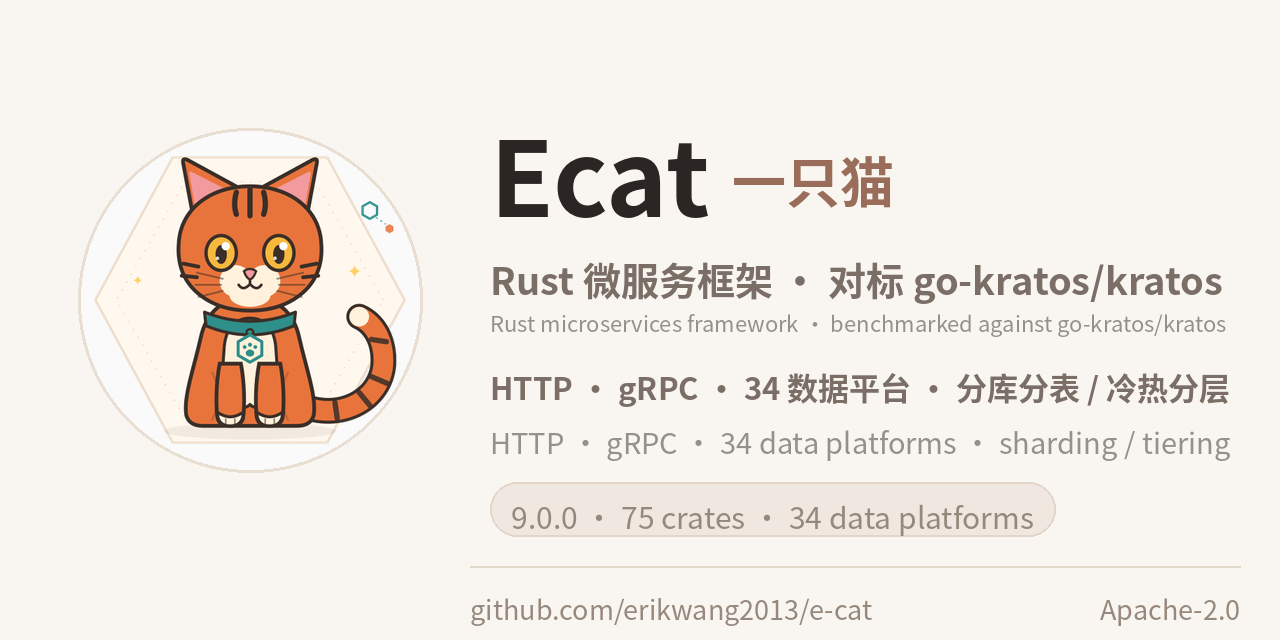
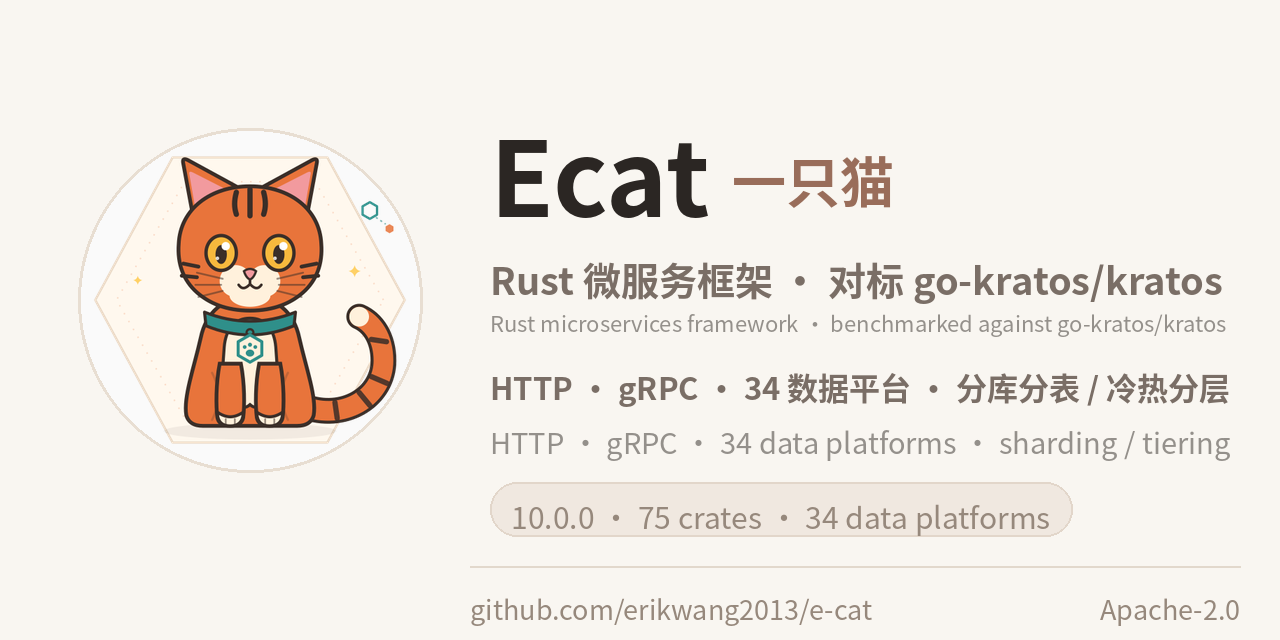
docs(release): prepare 10.0.0
- Add the 10.0.0 changelog section and site timeline/changelog entries.
- Refresh site/docs version references, sitemap dates, Helm appVersion and the
  social preview for 10.0.0.

Changed region(s): [[0.4062, 0.7812, 0.8438, 0.8438]]

diff --git a/site/changelog.html b/site/changelog.html
@@ -4,7 +4,7 @@
 <meta charset="utf-8">
 <meta name="viewport" content="width=device-width, initial-scale=1">
 <title>Ecat 版本日志 | Rust 微服务框架</title>
-<meta name="description" content="Ecat 的发布历史：27 个发布版本，当前版本 9.0.0；包含 34 项数据平台扩展、工作流编排、数据层横向扩展与全链路性能基准。">
+<meta name="description" content="Ecat 的发布历史：28 个发布版本，当前版本 10.0.0；包含 34 项数据平台扩展、工作流编排、数据层横向扩展与全链路性能基准。">
 <meta name="keywords" content="Ecat 版本日志,Rust 微服务框架,CHANGELOG,发布历史,Kratos,数据平台,工作流,数据层扩展,性能基准">
 <meta name="theme-color" content="#0a0e13">
 <meta name="color-scheme" content="dark">
@@ -26,7 +26,7 @@
 <meta property="og:type" content="article">
 <meta property="og:site_name" content="Ecat">
 <meta property="og:title" content="Ecat 版本日志 | Rust 微服务框架">
-<meta property="og:description" content="Ecat 的发布历史：27 个发布版本，当前版本 9.0.0；包含 34 项数据平台扩展、工作流编排、数据层横向扩展与全链路性能基准。">
+<meta property="og:description" content="Ecat 的发布历史：28 个发布版本，当前版本 10.0.0；包含 34 项数据平台扩展、工作流编排、数据层横向扩展与全链路性能基准。">
 <meta property="og:url" content="https://e-cat.erik.xyz/changelog.html">
 <meta property="og:image" content="https://e-cat.erik.xyz/assets/img/social-preview.png">
 <meta property="og:image:type" content="image/png">
@@ -40,7 +40,7 @@
 <meta property="article:author" content="https://erik.xyz">
 <meta name="twitter:card" content="summary_large_image">
 <meta name="twitter:title" content="Ecat 版本日志 | Rust 微服务框架">
-<meta name="twitter:description" content="Ecat 的发布历史：27 个发布版本，当前版本 9.0.0；包含 34 项数据平台扩展、工作流编排、数据层横向扩展与全链路性能基准。">
+<meta name="twitter:description" content="Ecat 的发布历史：28 个发布版本，当前版本 10.0.0；包含 34 项数据平台扩展、工作流编排、数据层横向扩展与全链路性能基准。">
 <meta name="twitter:image" content="https://e-cat.erik.xyz/assets/img/social-preview.png">
 <script type="application/ld+json">
 {
@@ -48,8 +48,8 @@
   "@graph": [
     {"@type":"WebSite","@id":"https://e-cat.erik.xyz/#website","url":"https://e-cat.erik.xyz/","name":"一只猫 Ecat","alternateName":"Ecat","description":"Ecat 是对标 Kratos v3 的 Rust 微服务框架：API-first，HTTP 与 gRPC 共享 tower 中间件，75 个 crate，34 个数据平台，新增分库分表/冷热分层，内置 ORM。","inLanguage":"zh-CN","publisher":{"@id":"https://e-cat.erik.xyz/#person"}},
     {"@type":"Person","@id":"https://e-cat.erik.xyz/#person","name":"erik","url":"https://erik.xyz","email":"erik@erik.xyz","sameAs":["https://github.com/erikwang2013"]},
-    {"@type":"SoftwareSourceCode","@id":"https://e-cat.erik.xyz/#software","name":"Ecat","alternateName":"一只猫","description":"API-first Rust 微服务框架，HTTP 与 gRPC 共享 tower 中间件，支持分库分表、冷热分层与 opt-in 2PC。","url":"https://e-cat.erik.xyz/","codeRepository":"https://github.com/erikwang2013/e-cat","programmingLanguage":{"@type":"ComputerLanguage","name":"Rust"},"license":"https://www.apache.org/licenses/LICENSE-2.0","version":"9.0.0","keywords":"Rust, microservices, Kratos, gRPC, HTTP, tower, ORM, sharding, tiering, Saga, 2PC, benchmarks","author":{"@id":"https://e-cat.erik.xyz/#person"},"sameAs":["https://crates.io/crates/ecat-cli","https://docs.rs/ecat"]},
-    {"@type":"WebPage","@id":"https://e-cat.erik.xyz/changelog.html#webpage","url":"https://e-cat.erik.xyz/changelog.html","name":"Ecat 版本日志 | Rust 微服务框架","description":"Ecat 的发布历史：27 个发布版本，当前版本 9.0.0；包含 34 项数据平台扩展、工作流编排、数据层横向扩展与全链路性能基准。","inLanguage":"zh-CN","isPartOf":{"@id":"https://e-cat.erik.xyz/#website"},"about":{"@id":"https://e-cat.erik.xyz/#software"},"datePublished":"2026-10-21","dateModified":"2026-11-05","primaryImageOfPage":{"@type":"ImageObject","url":"https://e-cat.erik.xyz/assets/img/social-preview.png","width":1280,"height":640},"breadcrumb":{"@id":"https://e-cat.erik.xyz/changelog.html#breadcrumb"}},
+    {"@type":"SoftwareSourceCode","@id":"https://e-cat.erik.xyz/#software","name":"Ecat","alternateName":"一只猫","description":"API-first Rust 微服务框架，HTTP 与 gRPC 共享 tower 中间件，支持分库分表、冷热分层与 opt-in 2PC。","url":"https://e-cat.erik.xyz/","codeRepository":"https://github.com/erikwang2013/e-cat","programmingLanguage":{"@type":"ComputerLanguage","name":"Rust"},"license":"https://www.apache.org/licenses/LICENSE-2.0","version":"10.0.0","keywords":"Rust, microservices, Kratos, gRPC, HTTP, tower, ORM, sharding, tiering, Saga, 2PC, benchmarks","author":{"@id":"https://e-cat.erik.xyz/#person"},"sameAs":["https://crates.io/crates/ecat-cli","https://docs.rs/ecat"]},
+    {"@type":"WebPage","@id":"https://e-cat.erik.xyz/changelog.html#webpage","url":"https://e-cat.erik.xyz/changelog.html","name":"Ecat 版本日志 | Rust 微服务框架","description":"Ecat 的发布历史：28 个发布版本，当前版本 10.0.0；包含 34 项数据平台扩展、工作流编排、数据层横向扩展与全链路性能基准。","inLanguage":"zh-CN","isPartOf":{"@id":"https://e-cat.erik.xyz/#website"},"about":{"@id":"https://e-cat.erik.xyz/#software"},"datePublished":"2026-10-21","dateModified":"2026-11-07","primaryImageOfPage":{"@type":"ImageObject","url":"https://e-cat.erik.xyz/assets/img/social-preview.png","width":1280,"height":640},"breadcrumb":{"@id":"https://e-cat.erik.xyz/changelog.html#breadcrumb"}},
     {"@type":"BreadcrumbList","@id":"https://e-cat.erik.xyz/changelog.html#breadcrumb","itemListElement":[{"@type":"ListItem","position":1,"name":"概览","item":"https://e-cat.erik.xyz/"},{"@type":"ListItem","position":2,"name":"版本日志","item":"https://e-cat.erik.xyz/changelog.html"}]}
   ]
 }
@@ -59,7 +59,7 @@
 <script src="assets/js/main.js" defer></script>
 <script src="assets/js/search.js" defer></script>
 </head>
-<body data-page="changelog" data-title-zh="Ecat 版本日志 | Rust 微服务框架" data-title-en="Ecat changelog | Rust microservices framework" data-desc-zh="Ecat 的发布历史：27 个发布版本，当前版本 9.0.0；包含 34 项数据平台扩展、工作流编排、数据层横向扩展与全链路性能基准。" data-desc-en="Ecat release history: 27 published versions, current release 9.0.0, including the 34-platform data expansion, workflow orchestration, data-layer scale-out, and full-chain benchmarks.">
+<body data-page="changelog" data-title-zh="Ecat 版本日志 | Rust 微服务框架" data-title-en="Ecat changelog | Rust microservices framework" data-desc-zh="Ecat 的发布历史：28 个发布版本，当前版本 10.0.0；包含 34 项数据平台扩展、工作流编排、数据层横向扩展与全链路性能基准。" data-desc-en="Ecat release history: 28 published versions, current release 10.0.0, including the 34-platform data expansion, workflow orchestration, data-layer scale-out, and full-chain benchmarks.">
 <a class="skip-link" href="#main" data-i18n="a11y.skip">跳到主要内容</a>
 <header class="site-header">
   <div class="shell header-inner">
@@ -91,7 +91,7 @@
       <div class="page-hero-copy">
         <nav class="breadcrumbs" aria-label="面包屑" data-i18n-aria="a11y.breadcrumb"><a href="./" data-i18n="nav.home">概览</a><span aria-hidden="true">/</span><span aria-current="page" data-i18n="nav.changelog">版本日志</span></nav>
         <h1 data-i18n="changelog.pageTitle">版本日志</h1>
-        <p data-i18n="changelog.pageLead">27 个发布版本，当前版本是 9.0.0。这里展示 15 个主要版本，破坏性变更单独标出。</p>
+        <p data-i18n="changelog.pageLead">28 个发布版本，当前版本是 10.0.0。这里展示 16 个主要版本，破坏性变更单独标出。</p>
       </div>
       <img class="page-hero-pet" src="assets/img/pet/knocking.svg" alt="" width="480" height="480" loading="eager" fetchpriority="high" decoding="async">
     </div>
@@ -101,12 +101,22 @@
   <section class="section">
     <div class="shell">
       <div class="log-toolbar reveal">
-        <p><span class="chip chip--teal" data-i18n="changelog.count">27 个发布版本 · 展示 15 个</span></p>
+        <p><span class="chip chip--teal" data-i18n="changelog.count">28 个发布版本 · 展示 16 个</span></p>
         <a class="text-link" href="https://github.com/erikwang2013/e-cat/blob/main/CHANGELOG.md" target="_blank" rel="noopener" data-i18n="changelog.full">在 GitHub 阅读完整 CHANGELOG</a>
       </div>
 
       <div class="log-list">
         <details class="log-item reveal" open>
+          <summary><span class="log-version">10.0.0</span><span class="log-date">2026-11-07</span><span class="log-tag" data-i18n="changelog.tagBreaking">破坏性</span><svg class="icon log-chevron" aria-hidden="true"><use href="assets/icons/sprite.svg#i-chevron-down"></use></svg></summary>
+          <div class="log-body"><ul>
+            <li data-i18n-html="changelog.v1000.b1"><strong>破坏性</strong>：<code>tonic</code> 0.12 → 0.14（<code>prost</code> 0.14、<code>tonic-prost</code>），gRPC 公开类型随之上移；MQ / RabbitMQ TLS 改走 native-tls（OpenSSL），MQTT mTLS 私钥须为 PKCS#8 PEM。</li>
+            <li data-i18n-html="changelog.v1000.b2">彻底移除不维护依赖：<code>rustls-pemfile</code>、<code>rustls-webpki 0.102.8</code>、<code>instant</code> 不再出现在 <code>Cargo.lock</code>；<code>prometheus</code> 0.14 消除 <code>protobuf</code> 2.28。</li>
+            <li data-i18n-html="changelog.v1000.b3">4 处 PEM 解析改用 <code>rustls-pki-types</code>；<code>lapin</code> 4、<code>rustls-native-certs</code> 0.8；<code>cargo audit --deny warnings</code> 通过（仅保留无修复版、当前用法不构成攻击面的 rsa）。</li>
+            <li data-i18n-html="changelog.v1000.b4">删除 39 个无引用的过期审计/测试报告；<code>ecat proto</code> 代码生成同步到 <code>tonic-prost-build</code>。</li>
+          </ul></div>
+        </details>
+
+        <details class="log-item reveal">
           <summary><span class="log-version">9.0.0</span><span class="log-date">2026-11-05</span><span class="log-tag" data-i18n="changelog.tagBreaking">破坏性</span><svg class="icon log-chevron" aria-hidden="true"><use href="assets/icons/sprite.svg#i-chevron-down"></use></svg></summary>
           <div class="log-body"><ul>
             <li data-i18n-html="changelog.v900.b1">移除 30 条未使用的直接依赖声明，涉及 18 个 Cargo.toml 与 workspace 表（<code>prost-types</code>、<code>ecat-protos</code>）；<code>cargo machete</code> 仅剩两个已知误报。</li>

diff --git a/site/index.html b/site/index.html
@@ -48,7 +48,7 @@
   "@graph": [
     {"@type":"WebSite","@id":"https://e-cat.erik.xyz/#website","url":"https://e-cat.erik.xyz/","name":"一只猫 Ecat","alternateName":"Ecat","description":"Ecat 是对标 Kratos v3 的 Rust 微服务框架：API-first，HTTP 与 gRPC 共享 tower 中间件，75 个 crate，34 个数据平台，覆盖数据层横向扩展、工作流编排与全链路性能基准，内置 ORM。","inLanguage":"zh-CN","publisher":{"@id":"https://e-cat.erik.xyz/#person"}},
     {"@type":"Person","@id":"https://e-cat.erik.xyz/#person","name":"erik","url":"https://erik.xyz","email":"erik@erik.xyz","sameAs":["https://github.com/erikwang2013"]},
-    {"@type":"SoftwareSourceCode","@id":"https://e-cat.erik.xyz/#software","name":"Ecat","alternateName":"一只猫","description":"API-first Rust 微服务框架，HTTP 与 gRPC 共享 tower 中间件，支持分库分表、冷热分层与 opt-in 2PC。","url":"https://e-cat.erik.xyz/","codeRepository":"https://github.com/erikwang2013/e-cat","programmingLanguage":{"@type":"ComputerLanguage","name":"Rust"},"license":"https://www.apache.org/licenses/LICENSE-2.0","version":"9.0.0","keywords":"Rust, microservices, Kratos, gRPC, HTTP, tower, ORM, sharding, tiering, Saga, 2PC, benchmarks","author":{"@id":"https://e-cat.erik.xyz/#person"},"sameAs":["https://crates.io/crates/ecat-cli","https://docs.rs/ecat"]},
+    {"@type":"SoftwareSourceCode","@id":"https://e-cat.erik.xyz/#software","name":"Ecat","alternateName":"一只猫","description":"API-first Rust 微服务框架，HTTP 与 gRPC 共享 tower 中间件，支持分库分表、冷热分层与 opt-in 2PC。","url":"https://e-cat.erik.xyz/","codeRepository":"https://github.com/erikwang2013/e-cat","programmingLanguage":{"@type":"ComputerLanguage","name":"Rust"},"license":"https://www.apache.org/licenses/LICENSE-2.0","version":"10.0.0","keywords":"Rust, microservices, Kratos, gRPC, HTTP, tower, ORM, sharding, tiering, Saga, 2PC, benchmarks","author":{"@id":"https://e-cat.erik.xyz/#person"},"sameAs":["https://crates.io/crates/ecat-cli","https://docs.rs/ecat"]},
     {"@type":"WebPage","@id":"https://e-cat.erik.xyz/#webpage","url":"https://e-cat.erik.xyz/","name":"一只猫 Ecat | 对标 Kratos 的 Rust 微服务框架","description":"Ecat 是对标 Kratos v3 的 Rust 微服务框架：API-first，HTTP 与 gRPC 共享 tower 中间件，75 个 crate，34 个数据平台，覆盖数据层横向扩展、工作流编排与全链路性能基准，内置 ORM。","inLanguage":"zh-CN","isPartOf":{"@id":"https://e-cat.erik.xyz/#website"},"about":{"@id":"https://e-cat.erik.xyz/#software"},"datePublished":"2026-10-21","dateModified":"2026-10-29","primaryImageOfPage":{"@type":"ImageObject","url":"https://e-cat.erik.xyz/assets/img/social-preview.png","width":1280,"height":640},"mainEntity":{"@id":"https://e-cat.erik.xyz/#faq"}},
     {"@type":"FAQPage","@id":"https://e-cat.erik.xyz/#faq","mainEntity":[
       {"@type":"Question","name":"Ecat 是什么？","acceptedAnswer":{"@type":"Answer","text":"Ecat（一只猫）是对标 go-kratos/kratos v3 的 Rust 微服务框架，提供 API-first 开发体验、HTTP 与 gRPC 共用 tower 中间件，以及 75 个可按 feature 组合的 crate。"}},
@@ -239,7 +239,7 @@
     <div class="shell">
       <div class="section-head reveal">
         <h2 data-i18n="timeline.title">从骨架到 75 个 crate</h2>
-        <p data-i18n="timeline.lead">从 2.x 的数据后端到 7.1 的宠物 CLI、7.2.0 的数据层横向扩展、7.2.1 的安全修复、7.3.0 的全链路性能基准，再到 8.0.0 的数据平台与工作流编排、9.0.0 的依赖与接口清理。Phase 1–17 已完成（部分 live gate 仍待真机）。</p>
+        <p data-i18n="timeline.lead">从 2.x 的数据后端到 7.1 的宠物 CLI、7.2.0 的数据层横向扩展、7.2.1 的安全修复、7.3.0 的全链路性能基准，再到 8.0.0 的数据平台与工作流编排、9.0.0 的接口清理、10.0.0 的依赖树净化。Phase 1–17 已完成（部分 live gate 仍待真机）。</p>
       </div>
       <div class="timeline">
         <article class="timeline-item reveal"><div class="timeline-meta"><strong>v2.1.7</strong><time datetime="2026-07-29">2026-07-29</time></div><h3 data-i18n="timeline.v217.title">数据层打开局面</h3><p data-i18n="timeline.v217.desc">11 个数据库后端，TLS、WebSocket、API 版本路由与部署模板落地。</p></article>
@@ -255,6 +255,7 @@
         <article class="timeline-item reveal"><div class="timeline-meta"><strong>v7.3.0</strong><time datetime="2026-10-26">2026-10-26</time></div><h3 data-i18n="timeline.v730.title">全链路性能基准</h3><p data-i18n="timeline.v730.desc">HTTP/gRPC 读路径 0/100,000 次 ≥10ms，TCP_NODELAY 消除毫秒级尾部；基准脚本与文档随版本发布。</p></article>
         <article class="timeline-item reveal"><div class="timeline-meta"><strong>v8.0.0</strong><time datetime="2026-10-29">2026-10-29</time></div><h3 data-i18n="timeline.v800.title">数据平台与工作流编排</h3><p data-i18n="timeline.v800.desc">新增 Trino、Flink、Druid、Kylin、Spark、HDFS、HBase、Cassandra、Iceberg、Delta Sharing 客户端；Doris/StarRocks 接入 sqlx；工作流统一契约覆盖 Airflow、DolphinScheduler、Azkaban、Oozie；支持表扩至 34 项。</p></article>
         <article class="timeline-item reveal"><div class="timeline-meta"><strong>v9.0.0</strong><time datetime="2026-11-05">2026-11-05</time></div><h3 data-i18n="timeline.v900.title">依赖与接口清理</h3><p data-i18n="timeline.v900.desc">移除 30 条无用依赖与 17 个无调用公开接口，删除 169 个无引用文档；升级 libz-sys 修复 RUSTSEC-2026-0418，cargo audit 清零。</p></article>
+        <article class="timeline-item reveal"><div class="timeline-meta"><strong>v10.0.0</strong><time datetime="2026-11-07">2026-11-07</time></div><h3 data-i18n="timeline.v1000.title">依赖树净化</h3><p data-i18n="timeline.v1000.desc">移除 rustls-pemfile、rustls-webpki 0.102.8 与 instant；升级 tonic 0.14、lapin 4、prometheus 0.14；MQ TLS 改走 native-tls，cargo audit 仅剩已评估的 rsa。</p></article>
       </div>
     </div>
   </section>
@@ -263,7 +264,7 @@
     <div class="shell">
       <div class="section-head reveal">
         <h2 data-i18n="perf.title">全链路性能基准（7.3.0）</h2>
-        <p data-i18n="perf.lead">HTTP/gRPC 搭配 MySQL 9 + Redis 7，本机 loopback、8 并发、每轮 1 万请求、5 轮；读路径为一条主键 SELECT 加一条 Redis GET。下图为 7.3.0 基准；9.0.0 无性能改动，未重跑。</p>
+        <p data-i18n="perf.lead">HTTP/gRPC 搭配 MySQL 9 + Redis 7，本机 loopback、8 并发、每轮 1 万请求、5 轮；读路径为一条主键 SELECT 加一条 Redis GET。下图为 7.3.0 基准；9.0.0 / 10.0.0 无性能改动，未重跑。</p>
       </div>
       <div class="arch-panel perf-panel reveal">
         <div class="stats-grid">
@@ -323,7 +324,7 @@
         <div class="download-primary reveal">
           <h3 data-i18n="download.primaryTitle">安装 CLI</h3>
           <p data-i18n="download.primaryDesc">只需要 Rust 1.88+ 和 protoc。命令会安装 ecat 二进制和宠物资源。</p>
-          <div class="version-line"><span class="version-pill">v9.0.0</span><span data-i18n="download.versionLabel">当前版本</span><span>Rust 1.88+</span><span>Apache-2.0</span></div>
+          <div class="version-line"><span class="version-pill">v10.0.0</span><span data-i18n="download.versionLabel">当前版本</span><span>Rust 1.88+</span><span>Apache-2.0</span></div>
           <div class="install-line"><code id="cargo-install">cargo install ecat-cli</code><button class="copy-btn" data-copy="#cargo-install" aria-label="复制代码" data-i18n-aria="a11y.copy"><svg class="icon" aria-hidden="true"><use href="assets/icons/sprite.svg#i-copy"></use></svg><span class="copy-label" data-i18n="a11y.copyShort">复制</span></button></div>
           <div class="download-links">
             <a class="text-link" href="https://crates.io/crates/ecat-cli" target="_blank" rel="noopener">crates.io <svg class="icon icon-sm" aria-hidden="true"><use href="assets/icons/sprite.svg#i-external-link"></use></svg></a>

diff --git a/site/assets/js/i18n-en.js b/site/assets/js/i18n-en.js
@@ -119,7 +119,7 @@ window.ECAT_EN = {
   "features.dual.petAlt": "Cute Ecat expression",
 
   "timeline.title": "From a workspace skeleton to 75 crates",
-  "timeline.lead": "From the 2.x data platforms to the 7.1 pet CLI, the 7.2.0 data-layer scale-out, the 7.2.1 hardening release, the 7.3.0 full-chain benchmarks, and the 8.0.0 data-platform and workflow expansion, to the 9.0.0 dependency and API cleanup. Phases 1–17 are complete, with some live gates still pending.",
+  "timeline.lead": "From the 2.x data platforms to the 7.1 pet CLI, the 7.2.0 data-layer scale-out, the 7.2.1 hardening release, the 7.3.0 full-chain benchmarks, and the 8.0.0 data-platform and workflow expansion, to the 9.0.0 dependency and API cleanup and the 10.0.0 dependency-tree purge. Phases 1–17 are complete, with some live gates still pending.",
   "timeline.v217.title": "The data layer opens up",
   "timeline.v217.desc": "Eleven database backends, TLS, WebSocket, API versioning, and deployment templates land.",
   "timeline.v300.title": "Messages and config get consistent",
@@ -248,11 +248,11 @@ window.ECAT_EN = {
   "ref.configDocLink": "Database config tutorial and field reference",
 
   "meta.changelog.title": "Ecat changelog | Rust microservices framework",
-  "meta.changelog.desc": "Ecat release history: 27 published versions, current release 9.0.0, including the 34-platform data expansion, workflow orchestration, data-layer scale-out, and full-chain benchmarks.",
+  "meta.changelog.desc": "Ecat release history: 28 published versions, current release 10.0.0, including the 34-platform data expansion, workflow orchestration, data-layer scale-out, and full-chain benchmarks.",
   "changelog.pageTitle": "Changelog",
-  "changelog.pageLead": "27 published versions, current release 9.0.0. This page shows 15 major entries; breaking changes are marked in each entry.",
+  "changelog.pageLead": "28 published versions, current release 10.0.0. This page shows 16 major entries; breaking changes are marked in each entry.",
   "changelog.full": "Read the full changelog on GitHub",
-  "changelog.count": "27 releases · 15 shown",
+  "changelog.count": "28 releases · 16 shown",
   "changelog.tagSecurity": "Security",
   "changelog.tagFeature": "Feature",
   "changelog.tagBreaking": "Breaking",
@@ -383,7 +383,13 @@ window.ECAT_EN = {
   "timeline.v800.desc": "Add Trino, Flink, Druid, Kylin, Spark, HDFS, HBase, Cassandra, Iceberg, and Delta Sharing clients; Doris/StarRocks join through sqlx; the unified workflow contract covers Airflow, DolphinScheduler, Azkaban, and Oozie; the support matrix reaches 34 entries.",
   "timeline.v900.title": "Dependency and API cleanup",
   "timeline.v900.desc": "Remove 30 unused dependencies and 17 uncalled public APIs, and delete 169 unreferenced documents; upgrade libz-sys to fix RUSTSEC-2026-0418 and clear cargo audit.",
+  "timeline.v1000.title": "Dependency-tree purge",
+  "timeline.v1000.desc": "Remove rustls-pemfile, rustls-webpki 0.102.8, and instant; upgrade tonic 0.14, lapin 4, and prometheus 0.14; MQ TLS moves to native-tls, leaving cargo audit with only the assessed rsa advisory.",
 
+  "changelog.v1000.b1": "<strong>Breaking</strong>: <code>tonic</code> 0.12 → 0.14 (<code>prost</code> 0.14, <code>tonic-prost</code>), moving public gRPC types forward; MQ / RabbitMQ TLS moves to native-tls (OpenSSL), and MQTT mTLS keys must be PKCS#8 PEM.",
+  "changelog.v1000.b2": "Remove the unmaintained <code>rustls-pemfile</code>, <code>rustls-webpki 0.102.8</code>, and <code>instant</code> from <code>Cargo.lock</code>; <code>prometheus</code> 0.14 removes <code>protobuf</code> 2.28.",
+  "changelog.v1000.b3": "Move four PEM parsing sites to <code>rustls-pki-types</code>; upgrade <code>lapin</code> 4 and <code>rustls-native-certs</code> 0.8; <code>cargo audit --deny warnings</code> passes with only the unfixable rsa advisory, which is not an attack surface in current use.",
+  "changelog.v1000.b4": "Delete 39 unreferenced stale audit/test reports; sync <code>ecat proto</code> code generation to <code>tonic-prost-build</code>.",
   "changelog.v900.b1": "Remove 30 unused direct dependency declarations across 18 Cargo.toml files and the workspace table (<code>prost-types</code>, <code>ecat-protos</code>); <code>cargo machete</code> now reports only two known false positives.",
   "changelog.v900.b2": "<strong>Breaking</strong>: remove 17 uncalled public APIs, including <code>SERVICE_NAME</code> / <code>CLIENT_IP</code>, several builders and constructors, <code>GraphQLSchema::{query, mutation}</code> (<code>query_fn</code> is kept), and <code>WorkflowHttp::client</code>. Downstream code must use the equivalent paths.",
   "changelog.v900.b3": "Delete 169 unreferenced documents and six <code>.superpowers</code> session artifacts; refresh the README, 12 i18n mirrors, the site, and the social preview.",
@@ -400,7 +406,7 @@ window.ECAT_EN = {
   "changelog.v730.b4": "The static site gains client-side full-text search with Ctrl/Cmd+K and / shortcuts. Version metadata moves to 7.3.0.",
 
   "perf.title": "Full-chain benchmarks (7.3.0)",
-  "perf.lead": "HTTP/gRPC with MySQL 9 + Redis 7 on loopback: 8 concurrency, 10,000 timed requests per round across 5 rounds. The read path is one primary-key SELECT plus one Redis GET. The chart shows the 7.3.0 benchmark; 9.0.0 has no performance changes and was not re-run.",
+  "perf.lead": "HTTP/gRPC with MySQL 9 + Redis 7 on loopback: 8 concurrency, 10,000 timed requests per round across 5 rounds. The read path is one primary-key SELECT plus one Redis GET. The chart shows the 7.3.0 benchmark; 9.0.0 and 10.0.0 have no performance changes and were not re-run.",
   "perf.statSlo": "read requests at 10ms or more",
   "perf.statHttp": "HTTP read max",
   "perf.statGrpc": "gRPC read max",
@@ -409,7 +415,7 @@ window.ECAT_EN = {
   "perf.docsLink": "See the full benchmark table and reproduction commands →",
   "perf.repoLink": "Repository docs/performance.md",
 
-  "perf.docsLead": "Final merged run: HTTP and gRPC in one process, 8 concurrency, 10,000 timed requests per round across 5 rounds. The read path is one primary-key SELECT plus one Redis GET on loopback; these numbers are not a production guarantee. The table is the 7.3.0 benchmark; 9.0.0 has no performance changes and was not re-run.",
+  "perf.docsLead": "Final merged run: HTTP and gRPC in one process, 8 concurrency, 10,000 timed requests per round across 5 rounds. The read path is one primary-key SELECT plus one Redis GET on loopback; these numbers are not a production guarantee. The table is the 7.3.0 benchmark; 9.0.0 and 10.0.0 have no performance changes and were not re-run.",
   "perf.table.transport": "Transport",
   "perf.table.http": "HTTP read",
   "perf.table.grpc": "gRPC read",

diff --git a/site/docs.html b/site/docs.html
@@ -48,7 +48,7 @@
   "@graph": [
     {"@type":"WebSite","@id":"https://e-cat.erik.xyz/#website","url":"https://e-cat.erik.xyz/","name":"一只猫 Ecat","alternateName":"Ecat","description":"Ecat 是对标 Kratos v3 的 Rust 微服务框架：API-first，HTTP 与 gRPC 共享 tower 中间件，75 个 crate，34 个数据平台，内置 ORM。","inLanguage":"zh-CN","publisher":{"@id":"https://e-cat.erik.xyz/#person"}},
     {"@type":"Person","@id":"https://e-cat.erik.xyz/#person","name":"erik","url":"https://erik.xyz","email":"erik@erik.xyz","sameAs":["https://github.com/erikwang2013"]},
-    {"@type":"SoftwareSourceCode","@id":"https://e-cat.erik.xyz/#software","name":"Ecat","alternateName":"一只猫","description":"API-first Rust 微服务框架，HTTP 与 gRPC 共享 tower 中间件，支持分库分表、冷热分层与 opt-in 2PC。","url":"https://e-cat.erik.xyz/","codeRepository":"https://github.com/erikwang2013/e-cat","programmingLanguage":{"@type":"ComputerLanguage","name":"Rust"},"license":"https://www.apache.org/licenses/LICENSE-2.0","version":"9.0.0","keywords":"Rust, microservices, Kratos, gRPC, HTTP, tower, ORM, sharding, tiering, Saga, 2PC, benchmarks","author":{"@id":"https://e-cat.erik.xyz/#person"},"sameAs":["https://crates.io/crates/ecat-cli","https://docs.rs/ecat"]},
+    {"@type":"SoftwareSourceCode","@id":"https://e-cat.erik.xyz/#software","name":"Ecat","alternateName":"一只猫","description":"API-first Rust 微服务框架，HTTP 与 gRPC 共享 tower 中间件，支持分库分表、冷热分层与 opt-in 2PC。","url":"https://e-cat.erik.xyz/","codeRepository":"https://github.com/erikwang2013/e-cat","programmingLanguage":{"@type":"ComputerLanguage","name":"Rust"},"license":"https://www.apache.org/licenses/LICENSE-2.0","version":"10.0.0","keywords":"Rust, microservices, Kratos, gRPC, HTTP, tower, ORM, sharding, tiering, Saga, 2PC, benchmarks","author":{"@id":"https://e-cat.erik.xyz/#person"},"sameAs":["https://crates.io/crates/ecat-cli","https://docs.rs/ecat"]},
     {"@type":"WebPage","@id":"https://e-cat.erik.xyz/docs.html#webpage","url":"https://e-cat.erik.xyz/docs.html","name":"Ecat 安装与使用 | Rust 微服务框架文档","description":"安装 ecat-cli，创建服务，组合中间件，连接 34 个数据平台、编排 4 个工作流引擎，使用 ORM，并查阅分库分表/冷热分层、全链路性能基准、技术栈、Kratos 映射与已知限制。","inLanguage":"zh-CN","isPartOf":{"@id":"https://e-cat.erik.xyz/#website"},"about":{"@id":"https://e-cat.erik.xyz/#software"},"datePublished":"2026-10-21","dateModified":"2026-10-29","primaryImageOfPage":{"@type":"ImageObject","url":"https://e-cat.erik.xyz/assets/img/social-preview.png","width":1280,"height":640},"breadcrumb":{"@id":"https://e-cat.erik.xyz/docs.html#breadcrumb"}},
     {"@type":"BreadcrumbList","@id":"https://e-cat.erik.xyz/docs.html#breadcrumb","itemListElement":[{"@type":"ListItem","position":1,"name":"概览","item":"https://e-cat.erik.xyz/"},{"@type":"ListItem","position":2,"name":"文档","item":"https://e-cat.erik.xyz/docs.html"}]}
   ]
@@ -508,7 +508,7 @@ tiering:
     <div class="shell">
       <div class="section-head reveal">
         <h2 data-i18n="perf.title">全链路性能基准（7.3.0）</h2>
-        <p data-i18n="perf.docsLead">最终合并运行：HTTP 与 gRPC 在同一进程，8 并发、每轮 10,000 请求、5 轮；读路径为一条主键 SELECT + 一条 Redis GET，本机 loopback，不是生产承诺。表中为 7.3.0 基准；9.0.0 无性能改动，未重跑。</p>
+        <p data-i18n="perf.docsLead">最终合并运行：HTTP 与 gRPC 在同一进程，8 并发、每轮 10,000 请求、5 轮；读路径为一条主键 SELECT + 一条 Redis GET，本机 loopback，不是生产承诺。表中为 7.3.0 基准；9.0.0 / 10.0.0 无性能改动，未重跑。</p>
       </div>
       <div class="reveal">
         <div class="perf-table-wrap">

diff --git a/site/pet.html b/site/pet.html
@@ -45,7 +45,7 @@
   "@graph": [
     {"@type":"WebSite","@id":"https://e-cat.erik.xyz/#website","url":"https://e-cat.erik.xyz/","name":"一只猫 Ecat","alternateName":"Ecat","description":"Ecat 是对标 Kratos v3 的 Rust 微服务框架：API-first，HTTP 与 gRPC 共享 tower 中间件，75 个 crate，34 个数据平台，新增分库分表/冷热分层，内置 ORM。","inLanguage":"zh-CN","publisher":{"@id":"https://e-cat.erik.xyz/#person"}},
     {"@type":"Person","@id":"https://e-cat.erik.xyz/#person","name":"erik","url":"https://erik.xyz","email":"erik@erik.xyz","sameAs":["https://github.com/erikwang2013"]},
-    {"@type":"SoftwareSourceCode","@id":"https://e-cat.erik.xyz/#software","name":"Ecat","alternateName":"一只猫","description":"API-first Rust 微服务框架，HTTP 与 gRPC 共享 tower 中间件，支持分库分表、冷热分层与 opt-in 2PC。","url":"https://e-cat.erik.xyz/","codeRepository":"https://github.com/erikwang2013/e-cat","programmingLanguage":{"@type":"ComputerLanguage","name":"Rust"},"license":"https://www.apache.org/licenses/LICENSE-2.0","version":"9.0.0","keywords":"Rust, microservices, Kratos, gRPC, HTTP, tower, ORM, sharding, tiering, Saga, 2PC, benchmarks","author":{"@id":"https://e-cat.erik.xyz/#person"},"sameAs":["https://crates.io/crates/ecat-cli","https://docs.rs/ecat"]},
+    {"@type":"SoftwareSourceCode","@id":"https://e-cat.erik.xyz/#software","name":"Ecat","alternateName":"一只猫","description":"API-first Rust 微服务框架，HTTP 与 gRPC 共享 tower 中间件，支持分库分表、冷热分层与 opt-in 2PC。","url":"https://e-cat.erik.xyz/","codeRepository":"https://github.com/erikwang2013/e-cat","programmingLanguage":{"@type":"ComputerLanguage","name":"Rust"},"license":"https://www.apache.org/licenses/LICENSE-2.0","version":"10.0.0","keywords":"Rust, microservices, Kratos, gRPC, HTTP, tower, ORM, sharding, tiering, Saga, 2PC, benchmarks","author":{"@id":"https://e-cat.erik.xyz/#person"},"sameAs":["https://crates.io/crates/ecat-cli","https://docs.rs/ecat"]},
     {"@type":"WebPage","@id":"https://e-cat.erik.xyz/pet.html#webpage","url":"https://e-cat.erik.xyz/pet.html","name":"Ecat 项目宠物 | 13 个矢量表情与 CLI","description":"Ecat 项目宠物的 13 个矢量形态：主形象加 12 种表情。预览、复制 ecat pet 命令，或设为返回顶部按钮，全部随 ecat-cli 打包。","inLanguage":"zh-CN","isPartOf":{"@id":"https://e-cat.erik.xyz/#website"},"about":{"@id":"https://e-cat.erik.xyz/#software"},"datePublished":"2026-10-21","dateModified":"2026-10-29","primaryImageOfPage":{"@type":"ImageObject","url":"https://e-cat.erik.xyz/assets/img/social-preview.png","width":1280,"height":640},"breadcrumb":{"@id":"https://e-cat.erik.xyz/pet.html#breadcrumb"}},
     {"@type":"BreadcrumbList","@id":"https://e-cat.erik.xyz/pet.html#breadcrumb","itemListElement":[{"@type":"ListItem","position":1,"name":"概览","item":"https://e-cat.erik.xyz/"},{"@type":"ListItem","position":2,"name":"项目宠物","item":"https://e-cat.erik.xyz/pet.html"}]}
   ]

diff --git a/docs/i18n/bn/dependency-cve-tracking.md b/docs/i18n/bn/dependency-cve-tracking.md
@@ -1,6 +1,6 @@
 # ডিপেন্ডেন্সি CVE ট্র্যাকিং
 
-> ভার্সন ডেটা `Cargo.lock` (2026-11-07, v9.0.0) থেকে এসেছে; প্রামাণিক সতর্কতা উৎস হল CI-র cargo-audit job (`.github/workflows/ci.yml`, `--deny warnings`, CI গেট হিসেবে যুক্ত) এবং [RustSec Advisory DB](https://rustsec.org/advisories/)। নিরীহ হিসেবে মূল্যায়ন করা আইটেমগুলো `.cargo/audit.toml`-এ ignore করা হয়েছে; টেবিলটি প্রতিটি রিলিজ/অডিটের সাথে আপডেট হয়।
+> ভার্সন ডেটা `Cargo.lock` (2026-11-07, v10.0.0) থেকে এসেছে; প্রামাণিক সতর্কতা উৎস হল CI-র cargo-audit job (`.github/workflows/ci.yml`, `--deny warnings`, CI গেট হিসেবে যুক্ত) এবং [RustSec Advisory DB](https://rustsec.org/advisories/)। নিরীহ হিসেবে মূল্যায়ন করা আইটেমগুলো `.cargo/audit.toml`-এ ignore করা হয়েছে; টেবিলটি প্রতিটি রিলিজ/অডিটের সাথে আপডেট হয়।
 
 | ডিপেন্ডেন্সি | ভার্সন | CVE অবস্থা | ব্যবস্থা |
 |------|------|----------|------|

diff --git a/docs/i18n/hi/dependency-cve-tracking.md b/docs/i18n/hi/dependency-cve-tracking.md
@@ -1,6 +1,6 @@
 # निर्भरता CVE ट्रैकिंग
 
-> संस्करण डेटा `Cargo.lock` (2026-11-07, v9.0.0) से आता है; आधिकारिक अलर्ट स्रोत CI का cargo-audit job (`.github/workflows/ci.yml`, `--deny warnings`, CI गेट के रूप में जुड़ा हुआ) और [RustSec Advisory DB](https://rustsec.org/advisories/) है। हानिरहित मूल्यांकित आइटम `.cargo/audit.toml` में ignore किए गए हैं; तालिका प्रत्येक रिलीज़/ऑडिट के साथ अपडेट होती है।
+> संस्करण डेटा `Cargo.lock` (2026-11-07, v10.0.0) से आता है; आधिकारिक अलर्ट स्रोत CI का cargo-audit job (`.github/workflows/ci.yml`, `--deny warnings`, CI गेट के रूप में जुड़ा हुआ) और [RustSec Advisory DB](https://rustsec.org/advisories/) है। हानिरहित मूल्यांकित आइटम `.cargo/audit.toml` में ignore किए गए हैं; तालिका प्रत्येक रिलीज़/ऑडिट के साथ अपडेट होती है।
 
 | निर्भरता | संस्करण | CVE स्थिति | निपटान |
 |------|------|----------|------|

diff --git a/docs/i18n/ru/dependency-cve-tracking.md b/docs/i18n/ru/dependency-cve-tracking.md
@@ -1,6 +1,6 @@
 # Отслеживание CVE зависимостей
 
-> Данные о версиях взяты из `Cargo.lock` (2026-11-07, v9.0.0); авторитетные источники предупреждений — job `cargo-audit` в CI (`.github/workflows/ci.yml`, `--deny warnings`, подключён как шлюз CI) и [RustSec Advisory DB](https://rustsec.org/advisories/). Проверенные безвредные позиции игнорируются в `.cargo/audit.toml`; таблица обновляется при каждом релизе/аудите.
+> Данные о версиях взяты из `Cargo.lock` (2026-11-07, v10.0.0); авторитетные источники предупреждений — job `cargo-audit` в CI (`.github/workflows/ci.yml`, `--deny warnings`, подключён как шлюз CI) и [RustSec Advisory DB](https://rustsec.org/advisories/). Проверенные безвредные позиции игнорируются в `.cargo/audit.toml`; таблица обновляется при каждом релизе/аудите.
 
 | Зависимость | Версия | Статус CVE | Меры |
 |------|------|----------|------|

diff --git a/docs/i18n/ar/dependency-cve-tracking.md b/docs/i18n/ar/dependency-cve-tracking.md
@@ -1,6 +1,6 @@
 # تتبع ثغرات CVE في التبعيات
 
-> بيانات الإصدارات من `Cargo.lock` (2026-11-07، v9.0.0)؛ مصادر التنبيه الموثوقة هي وظيفة cargo-audit في CI (`.github/workflows/ci.yml`، مع `--deny warnings`، مُدمجة كبوابة CI) و[RustSec Advisory DB](https://rustsec.org/advisories/). العناصر التي جرى تقييمها على أنها غير ضارة مُهمَلة في `.cargo/audit.toml`؛ يُحدَّث الجدول مع كل إصدار/تدقيق.
+> بيانات الإصدارات من `Cargo.lock` (2026-11-07، v10.0.0)؛ مصادر التنبيه الموثوقة هي وظيفة cargo-audit في CI (`.github/workflows/ci.yml`، مع `--deny warnings`، مُدمجة كبوابة CI) و[RustSec Advisory DB](https://rustsec.org/advisories/). العناصر التي جرى تقييمها على أنها غير ضارة مُهمَلة في `.cargo/audit.toml`؛ يُحدَّث الجدول مع كل إصدار/تدقيق.
 
 | التبعية | الإصدار | حالة CVE | المعالجة |
 |------|------|----------|------|

diff --git a/docs/i18n/ja/dependency-cve-tracking.md b/docs/i18n/ja/dependency-cve-tracking.md
@@ -1,6 +1,6 @@
 # 依存関係 CVE トラッキング
 
-> バージョンデータは `Cargo.lock`（2026-11-07、v9.0.0）から取得；信頼できる警告ソースは CI の cargo-audit job（`.github/workflows/ci.yml`、`--deny warnings`、CI ゲートとして接続済み）と [RustSec Advisory DB](https://rustsec.org/advisories/) です。無害と評価された項目は `.cargo/audit.toml` で ignore されています；テーブルはリリース・監査のたびに更新されます。
+> バージョンデータは `Cargo.lock`（2026-11-07、v10.0.0）から取得；信頼できる警告ソースは CI の cargo-audit job（`.github/workflows/ci.yml`、`--deny warnings`、CI ゲートとして接続済み）と [RustSec Advisory DB](https://rustsec.org/advisories/) です。無害と評価された項目は `.cargo/audit.toml` で ignore されています；テーブルはリリース・監査のたびに更新されます。
 
 | 依存関係 | バージョン | CVE ステータス | 対応 |
 |------|------|----------|------|

diff --git a/docs/i18n/fr/dependency-cve-tracking.md b/docs/i18n/fr/dependency-cve-tracking.md
@@ -1,6 +1,6 @@
 # Suivi des CVE de dépendances
 
-> Les données de version proviennent de `Cargo.lock` (2026-11-07, v9.0.0) ; les sources d'alerte faisant autorité sont le job cargo-audit du CI (`.github/workflows/ci.yml`, `--deny warnings`, intégré comme porte de contrôle CI) et la [RustSec Advisory DB](https://rustsec.org/advisories/). Les éléments évalués comme inoffensifs sont ignorés dans `.cargo/audit.toml` ; le tableau est mis à jour à chaque publication/audit.
+> Les données de version proviennent de `Cargo.lock` (2026-11-07, v10.0.0) ; les sources d'alerte faisant autorité sont le job cargo-audit du CI (`.github/workflows/ci.yml`, `--deny warnings`, intégré comme porte de contrôle CI) et la [RustSec Advisory DB](https://rustsec.org/advisories/). Les éléments évalués comme inoffensifs sont ignorés dans `.cargo/audit.toml` ; le tableau est mis à jour à chaque publication/audit.
 
 | Dépendance | Version | Statut CVE | Traitement |
 |------|------|----------|------|

diff --git a/docs/i18n/es/dependency-cve-tracking.md b/docs/i18n/es/dependency-cve-tracking.md
@@ -1,6 +1,6 @@
 # Seguimiento de CVE de dependencias
 
-> Los datos de versiones provienen de `Cargo.lock` (2026-11-07, v9.0.0); las fuentes de alerta autoritativas son el job de cargo-audit del CI (`.github/workflows/ci.yml`, `--deny warnings`, integrado como puerta del CI) y la [RustSec Advisory DB](https://rustsec.org/advisories/). Los elementos evaluados como inofensivos se ignoran en `.cargo/audit.toml`; la tabla se actualiza con cada release/auditoría.
+> Los datos de versiones provienen de `Cargo.lock` (2026-11-07, v10.0.0); las fuentes de alerta autoritativas son el job de cargo-audit del CI (`.github/workflows/ci.yml`, `--deny warnings`, integrado como puerta del CI) y la [RustSec Advisory DB](https://rustsec.org/advisories/). Los elementos evaluados como inofensivos se ignoran en `.cargo/audit.toml`; la tabla se actualiza con cada release/auditoría.
 
 | Dependencia | Versión | Estado CVE | Disposición |
 |------|------|----------|------|
